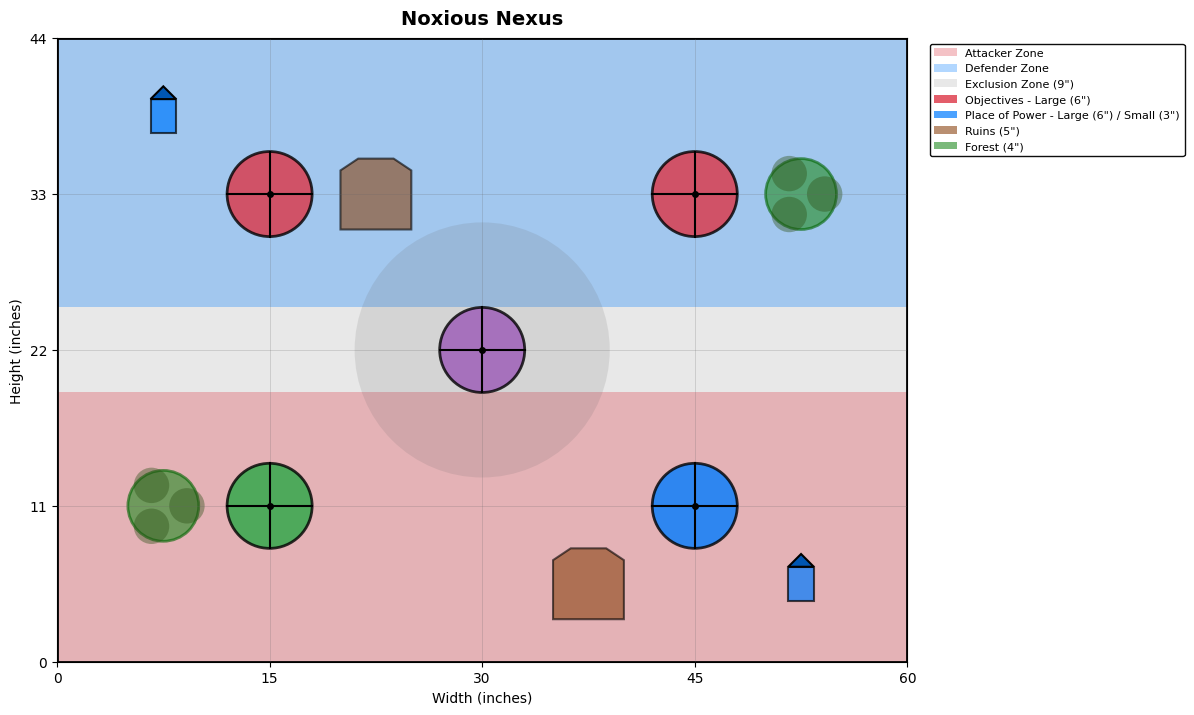
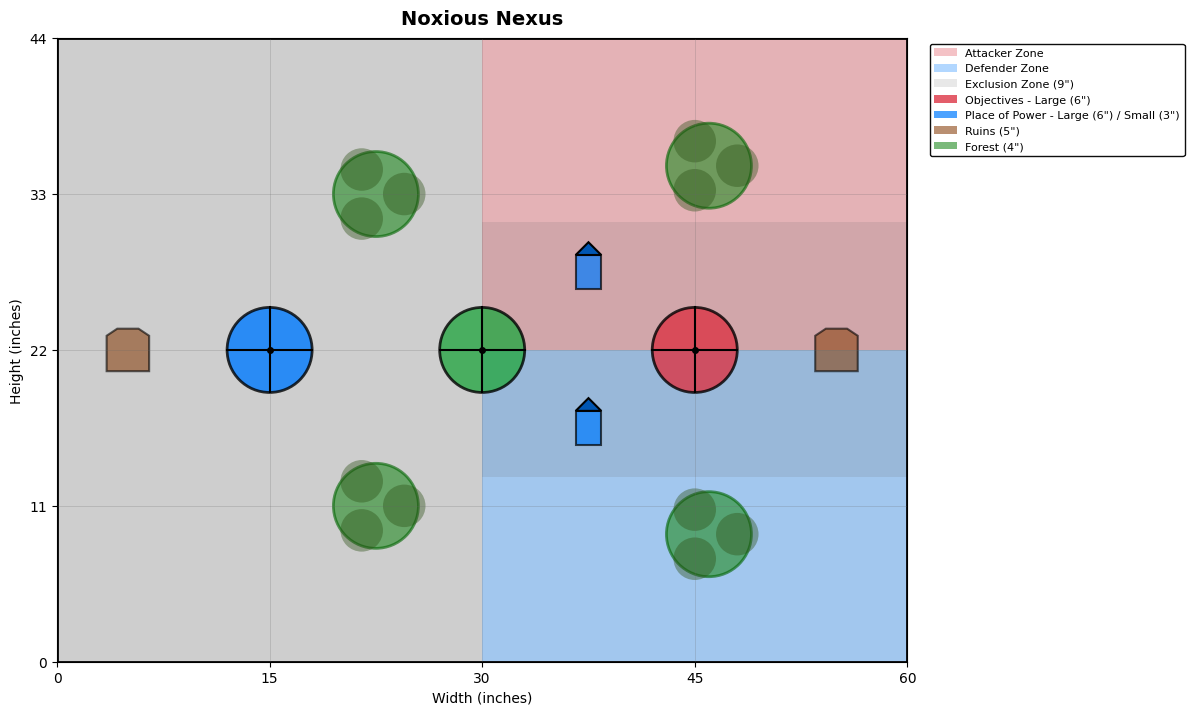
Lock Noxious Nexus: 3 objectives, 4 forests, 2 PoP, 2 ruins

diff --git a/battle-plans-demo.html b/battle-plans-demo.html
@@ -56,7 +56,7 @@
     </div>
     <div class="status-summary">
         <div class="status-item">
-            <span class="status-count locked">6</span>
+            <span class="status-count locked">7</span>
             <div class="status-label">LOCKED</div>
         </div>
         <div class="status-item">
@@ -64,7 +64,7 @@
             <div class="status-label">IN PROGRESS</div>
         </div>
         <div class="status-item">
-            <span class="status-count remaining">5</span>
+            <span class="status-count remaining">4</span>
             <div class="status-label">REMAINING</div>
         </div>
     </div>
@@ -73,48 +73,49 @@
             <div class="card">
                 <div class="card-header">
                     <div class="mission-num">Mission 1 of 12</div>
-                    <h2>Linked Ley Lines</h2>
+                    <h2>Noxious Nexus</h2>
                 </div>
                 <div class="grid4">
                     <div class="col">
                         <h3><span class="badge badge-waha">WAHAPEDIA</span></h3>
                         <div class="img-box">
-                            <img src="assets/battle-plans/aos-linked-ley-lines.png" alt="Linked Ley Lines Wahapedia">
+                            <img src="assets/battle-plans/aos-noxious-nexus.png" alt="Noxious Nexus Wahapedia">
                             <div class="img-label">Original Source</div>
                         </div>
                     </div>
                     <div class="col">
                         <h3><span class="badge badge-aoi">AGE OF INDEX</span></h3>
                         <div class="img-box">
-                            <img src="assets/battle-plans-ageofindex/aos-linked-ley-lines.png" alt="Linked Ley Lines AOI">
+                            <img src="assets/battle-plans-ageofindex/aos-noxious-nexus.png" alt="Noxious Nexus AOI">
                             <div class="img-label">ageofindex.com</div>
                         </div>
                     </div>
                     <div class="col">
                         <h3><span class="badge badge-matplot">MATPLOTLIB</span></h3>
                         <div class="img-box">
-                            <img src="assets/battle-plans-matplotlib/aos-linked-ley-lines-matplotlib.png" alt="Linked Ley Lines Generated">
+                            <img src="assets/battle-plans-matplotlib/aos-noxious-nexus-matplotlib.png" alt="Noxious Nexus Generated">
                             <div class="img-label">Generated Diagram</div>
                         </div>
                     </div>
                     <div class="col">
                         <h3><span class="badge badge-elem">BATTLEFIELD ELEMENTS</span></h3>
                         <div class="elem-list">
-                            <div class="elem-item zone-item"><span class="elem-type">Deployment zone</span> Attacker Zone<div class="zone-coords">(0", 0") → (60", 0") → (60", 11") → (0", 11")</div></div>
-                                <div class="elem-item zone-item"><span class="elem-type">Deployment zone</span> Defender Zone<div class="zone-coords">(0", 33") → (60", 33") → (60", 44") → (0", 44")</div></div>
-                                <div class="elem-item"><span class="elem-type">Objective</span> <span class="color-badge color-blue"></span>Blue Center (large)<span class="coords">(30", 22")</span></div>
-                                <div class="elem-item"><span class="elem-type">Objective</span> <span class="color-badge color-red"></span>Red South (large)<span class="coords">(30", 11")</span></div>
-                                <div class="elem-item"><span class="elem-type">Objective</span> <span class="color-badge color-red"></span>Red North (large)<span class="coords">(30", 33")</span></div>
-                                <div class="elem-item"><span class="elem-type">Objective</span> <span class="color-badge color-green"></span>Green West (large)<span class="coords">(15", 22")</span></div>
-                                <div class="elem-item"><span class="elem-type">Objective</span> <span class="color-badge color-green"></span>Green East (large)<span class="coords">(45", 22")</span></div>
-                                <div class="elem-item"><span class="elem-type">Forest</span> Forest Northeast (large)<span class="coords">(41.5", 33")</span></div>
-                                <div class="elem-item"><span class="elem-type">Forest</span> Forest Southwest (large)<span class="coords">(18.5", 11")</span></div>
-                                <div class="elem-item"><span class="elem-type">Place of power</span> Place of Power Northwest (large)<span class="coords">(18", 34.5")</span></div>
-                                <div class="elem-item"><span class="elem-type">Place of power</span> Place of Power Southeast (large)<span class="coords">(42", 9.5")</span></div>
-                                <div class="elem-item"><span class="elem-type">Place of power</span> Place of Power West (small)<span class="coords">(5", 22")</span></div>
-                                <div class="elem-item"><span class="elem-type">Place of power</span> Place of Power East (small)<span class="coords">(55", 22")</span></div>
-                                <div class="elem-item"><span class="elem-type">Ruins</span> Ruins Northwest (large)<span class="coords">(6", 36")</span></div>
-                                <div class="elem-item"><span class="elem-type">Ruins</span> Ruins Southeast (large)<span class="coords">(54", 8")</span></div>
+                            <div class="elem-item zone-item"><span class="elem-type">Deployment zone</span> Neutral Zone<div class="zone-coords">(0", 0") → (30", 0") → (30", 44") → (0", 44")</div></div>
+                                <div class="elem-item zone-item"><span class="elem-type">Deployment zone</span> Red Zone<div class="zone-coords">(30", 22") → (60", 22") → (60", 44") → (30", 44")</div></div>
+                                <div class="elem-item zone-item"><span class="elem-type">Deployment zone</span> Blue Zone<div class="zone-coords">(30", 0") → (60", 0") → (60", 22") → (30", 22")</div></div>
+                                <div class="elem-item zone-item"><span class="elem-type">Exclusion zone</span> 9" from blue edge<div class="zone-coords">(30", 13") → (60", 13") → (60", 22") → (30", 22")</div></div>
+                                <div class="elem-item zone-item"><span class="elem-type">Exclusion zone</span> 9" from red edge<div class="zone-coords">(30", 22") → (60", 22") → (60", 31") → (30", 31")</div></div>
+                                <div class="elem-item"><span class="elem-type">Objective</span> <span class="color-badge color-blue"></span>West (large)<span class="coords">(15", 22")</span></div>
+                                <div class="elem-item"><span class="elem-type">Objective</span> <span class="color-badge color-green"></span>Center (large)<span class="coords">(30", 22")</span></div>
+                                <div class="elem-item"><span class="elem-type">Objective</span> <span class="color-badge color-red"></span>East (large)<span class="coords">(45", 22")</span></div>
+                                <div class="elem-item"><span class="elem-type">Ruins</span> Ruins W (small)<span class="coords">(5", 22")</span></div>
+                                <div class="elem-item"><span class="elem-type">Ruins</span> Ruins E (small)<span class="coords">(55", 22")</span></div>
+                                <div class="elem-item"><span class="elem-type">Forest</span> Forest N1 (large)<span class="coords">(22.5", 33")</span></div>
+                                <div class="elem-item"><span class="elem-type">Forest</span> Forest S1 (large)<span class="coords">(22.5", 11")</span></div>
+                                <div class="elem-item"><span class="elem-type">Forest</span> Forest N2 (large)<span class="coords">(46", 35")</span></div>
+                                <div class="elem-item"><span class="elem-type">Forest</span> Forest S2 (large)<span class="coords">(46", 9")</span></div>
+                                <div class="elem-item"><span class="elem-type">Place of power</span> PoP N (small)<span class="coords">(37.5", 27.5")</span></div>
+                                <div class="elem-item"><span class="elem-type">Place of power</span> PoP S (small)<span class="coords">(37.5", 16.5")</span></div>
                         </div>
                     </div>
                 </div>
@@ -427,47 +428,48 @@
             <div class="card">
                 <div class="card-header">
                     <div class="mission-num">Mission 8 of 12</div>
-                    <h2>Noxious Nexus</h2>
+                    <h2>Linked Ley Lines <span style="color: #28a745; font-weight: bold;">[LOCKED]</span></h2>
                 </div>
                 <div class="grid4">
                     <div class="col">
                         <h3><span class="badge badge-waha">WAHAPEDIA</span></h3>
                         <div class="img-box">
-                            <img src="assets/battle-plans/aos-noxious-nexus.png" alt="Noxious Nexus Wahapedia">
+                            <img src="assets/battle-plans/aos-linked-ley-lines.png" alt="Linked Ley Lines Wahapedia">
                             <div class="img-label">Original Source</div>
                         </div>
                     </div>
                     <div class="col">
                         <h3><span class="badge badge-aoi">AGE OF INDEX</span></h3>
                         <div class="img-box">
-                            <img src="assets/battle-plans-ageofindex/aos-noxious-nexus.png" alt="Noxious Nexus AOI">
+                            <img src="assets/battle-plans-ageofindex/aos-linked-ley-lines.png" alt="Linked Ley Lines AOI">
                             <div class="img-label">ageofindex.com</div>
                         </div>
                     </div>
                     <div class="col">
                         <h3><span class="badge badge-matplot">MATPLOTLIB</span></h3>
                         <div class="img-box">
-                            <img src="assets/battle-plans-matplotlib/aos-noxious-nexus-matplotlib.png" alt="Noxious Nexus Generated">
+                            <img src="assets/battle-plans-matplotlib/aos-linked-ley-lines-matplotlib.png" alt="Linked Ley Lines Generated">
                             <div class="img-label">Generated Diagram</div>
                         </div>
                     </div>
                     <div class="col">
                         <h3><span class="badge badge-elem">BATTLEFIELD ELEMENTS</span></h3>
                         <div class="elem-list">
-                            <div class="elem-item zone-item"><span class="elem-type">Deployment zone</span> Attacker Zone<div class="zone-coords">(0", 0") → (60", 0") → (60", 19") → (0", 19")</div></div>
-                                <div class="elem-item zone-item"><span class="elem-type">Deployment zone</span> Defender Zone<div class="zone-coords">(0", 25") → (60", 25") → (60", 44") → (0", 44")</div></div>
-                                <div class="elem-item"><span class="elem-type">Exclusion zone</span> 9" from center point <span class="coords">Center: (30", 22"), Radius: 9"</span></div>
-                                <div class="elem-item"><span class="elem-type">Objective</span> <span class="color-badge color-red"></span>W-North (large)<span class="coords">(15", 33")</span></div>
-                                <div class="elem-item"><span class="elem-type">Objective</span> <span class="color-badge color-green"></span>W-South (large)<span class="coords">(15", 11")</span></div>
-                                <div class="elem-item"><span class="elem-type">Objective</span> <span class="color-badge color-purple"></span>Center (large)<span class="coords">(30", 22")</span></div>
-                                <div class="elem-item"><span class="elem-type">Objective</span> <span class="color-badge color-red"></span>E-North (large)<span class="coords">(45", 33")</span></div>
-                                <div class="elem-item"><span class="elem-type">Objective</span> <span class="color-badge color-blue"></span>E-South (large)<span class="coords">(45", 11")</span></div>
-                                <div class="elem-item"><span class="elem-type">Place of power</span> Place of Power NW (small)<span class="coords">(7.5", 38.5")</span></div>
-                                <div class="elem-item"><span class="elem-type">Place of power</span> Place of Power SE (small)<span class="coords">(52.5", 5.5")</span></div>
-                                <div class="elem-item"><span class="elem-type">Ruins</span> Ruins NW <span class="coords">(22.5", 33")</span></div>
-                                <div class="elem-item"><span class="elem-type">Ruins</span> Ruins S <span class="coords">(37.5", 5.5")</span></div>
-                                <div class="elem-item"><span class="elem-type">Forest</span> Forest NE <span class="coords">(52.5", 33")</span></div>
-                                <div class="elem-item"><span class="elem-type">Forest</span> Forest SW <span class="coords">(7.5", 11")</span></div>
+                            <div class="elem-item zone-item"><span class="elem-type">Deployment zone</span> Attacker Zone<div class="zone-coords">(0", 0") → (60", 0") → (60", 11") → (0", 11")</div></div>
+                                <div class="elem-item zone-item"><span class="elem-type">Deployment zone</span> Defender Zone<div class="zone-coords">(0", 33") → (60", 33") → (60", 44") → (0", 44")</div></div>
+                                <div class="elem-item"><span class="elem-type">Objective</span> <span class="color-badge color-blue"></span>Blue Center (large)<span class="coords">(30", 22")</span></div>
+                                <div class="elem-item"><span class="elem-type">Objective</span> <span class="color-badge color-red"></span>Red South (large)<span class="coords">(30", 11")</span></div>
+                                <div class="elem-item"><span class="elem-type">Objective</span> <span class="color-badge color-red"></span>Red North (large)<span class="coords">(30", 33")</span></div>
+                                <div class="elem-item"><span class="elem-type">Objective</span> <span class="color-badge color-green"></span>Green West (large)<span class="coords">(15", 22")</span></div>
+                                <div class="elem-item"><span class="elem-type">Objective</span> <span class="color-badge color-green"></span>Green East (large)<span class="coords">(45", 22")</span></div>
+                                <div class="elem-item"><span class="elem-type">Forest</span> Forest Northeast (large)<span class="coords">(41.5", 33")</span></div>
+                                <div class="elem-item"><span class="elem-type">Forest</span> Forest Southwest (large)<span class="coords">(18.5", 11")</span></div>
+                                <div class="elem-item"><span class="elem-type">Place of power</span> Place of Power Northwest (large)<span class="coords">(18", 34.5")</span></div>
+                                <div class="elem-item"><span class="elem-type">Place of power</span> Place of Power Southeast (large)<span class="coords">(42", 9.5")</span></div>
+                                <div class="elem-item"><span class="elem-type">Place of power</span> Place of Power West (small)<span class="coords">(5", 22")</span></div>
+                                <div class="elem-item"><span class="elem-type">Place of power</span> Place of Power East (small)<span class="coords">(55", 22")</span></div>
+                                <div class="elem-item"><span class="elem-type">Ruins</span> Ruins Northwest (large)<span class="coords">(6", 36")</span></div>
+                                <div class="elem-item"><span class="elem-type">Ruins</span> Ruins Southeast (large)<span class="coords">(54", 8")</span></div>
                         </div>
                     </div>
                 </div>

diff --git a/scripts/extract_mission_objects.py b/scripts/extract_mission_objects.py
@@ -203,26 +203,28 @@ MISSIONS = {
     "aos-noxious-nexus": {
         "name": "Noxious Nexus",
         "deployment_zones": [
-            {"player": "Attacker", "color": "#dc3545", "alpha": 0.3, "coords": [(0, 0), (60, 0), (60, 19), (0, 19)]},
-            {"player": "Defender", "color": "#007bff", "alpha": 0.3, "coords": [(0, 25), (60, 25), (60, 44), (0, 44)]},
+            {"player": "Neutral", "color": "#666666", "alpha": 0.2, "coords": [(0, 0), (30, 0), (30, 44), (0, 44)]},
+            {"player": "Red", "color": "#dc3545", "alpha": 0.3, "coords": [(30, 22), (60, 22), (60, 44), (30, 44)]},
+            {"player": "Blue", "color": "#007bff", "alpha": 0.3, "coords": [(30, 0), (60, 0), (60, 22), (30, 22)]},
         ],
         "exclusion_zones": [
-            {"type": "circle", "center": (30, 22), "radius": 9, "color": "#666666", "alpha": 0.15, "note": "9\" from center point"},
+            {"type": "rect", "coords": [(30, 13), (60, 13), (60, 22), (30, 22)], "color": "#666666", "alpha": 0.15, "note": "9\" from blue edge"},
+            {"type": "rect", "coords": [(30, 22), (60, 22), (60, 31), (30, 31)], "color": "#666666", "alpha": 0.15, "note": "9\" from red edge"},
         ],
         "objectives": [
-            {"name": "W-North", "x": 15, "y": 33, "color": "red", "type": "objective", "size": "large"},
-            {"name": "W-South", "x": 15, "y": 11, "color": "green", "type": "objective", "size": "large"},
-            {"name": "Center", "x": 30, "y": 22, "color": "purple", "type": "objective", "size": "large"},
-            {"name": "E-North", "x": 45, "y": 33, "color": "red", "type": "objective", "size": "large"},
-            {"name": "E-South", "x": 45, "y": 11, "color": "blue", "type": "objective", "size": "large"},
+            {"name": "West", "x": 15, "y": 22, "color": "blue", "type": "objective", "size": "large"},
+            {"name": "Center", "x": 30, "y": 22, "color": "green", "type": "objective", "size": "large"},
+            {"name": "East", "x": 45, "y": 22, "color": "red", "type": "objective", "size": "large"},
         ],
         "terrain": [
-            {"name": "Place of Power NW", "x": 7.5, "y": 38.5, "type": "place_of_power", "size": "small"},
-            {"name": "Place of Power SE", "x": 52.5, "y": 5.5, "type": "place_of_power", "size": "small"},
-            {"name": "Ruins NW", "x": 22.5, "y": 33, "type": "ruins"},
-            {"name": "Ruins S", "x": 37.5, "y": 5.5, "type": "ruins"},
-            {"name": "Forest NE", "x": 52.5, "y": 33, "type": "forest"},
-            {"name": "Forest SW", "x": 7.5, "y": 11, "type": "forest"},
+            {"name": "Ruins W", "x": 5, "y": 22, "type": "ruins", "size": "small"},
+            {"name": "Ruins E", "x": 55, "y": 22, "type": "ruins", "size": "small"},
+            {"name": "Forest N1", "x": 22.5, "y": 33, "type": "forest", "size": "large"},
+            {"name": "Forest S1", "x": 22.5, "y": 11, "type": "forest", "size": "large"},
+            {"name": "Forest N2", "x": 46, "y": 35, "type": "forest", "size": "large"},
+            {"name": "Forest S2", "x": 46, "y": 9, "type": "forest", "size": "large"},
+            {"name": "PoP N", "x": 37.5, "y": 27.5, "type": "place_of_power", "size": "small"},
+            {"name": "PoP S", "x": 37.5, "y": 16.5, "type": "place_of_power", "size": "small"},
         ]
     },
     "aos-paths-of-the-fey": {

diff --git a/scripts/build_demo_fixed.py b/scripts/build_demo_fixed.py
@@ -5,7 +5,7 @@ import subprocess
 from extract_mission_objects import MISSIONS as MISSION_DATA
 
 # Current mission being worked on (shows first in gallery)
-CURRENT_MISSION = "aos-linked-ley-lines"
+CURRENT_MISSION = "aos-noxious-nexus"
 
 # Locked missions (completed and verified)
 LOCKED_MISSIONS = [
@@ -15,6 +15,7 @@ LOCKED_MISSIONS = [
     "aos-cyclic-shifts",
     "aos-grasp-of-thorns",
     "aos-lifecycle",
+    "aos-linked-ley-lines",
 ]
 
 # Convert MISSIONS dict to list format for template
